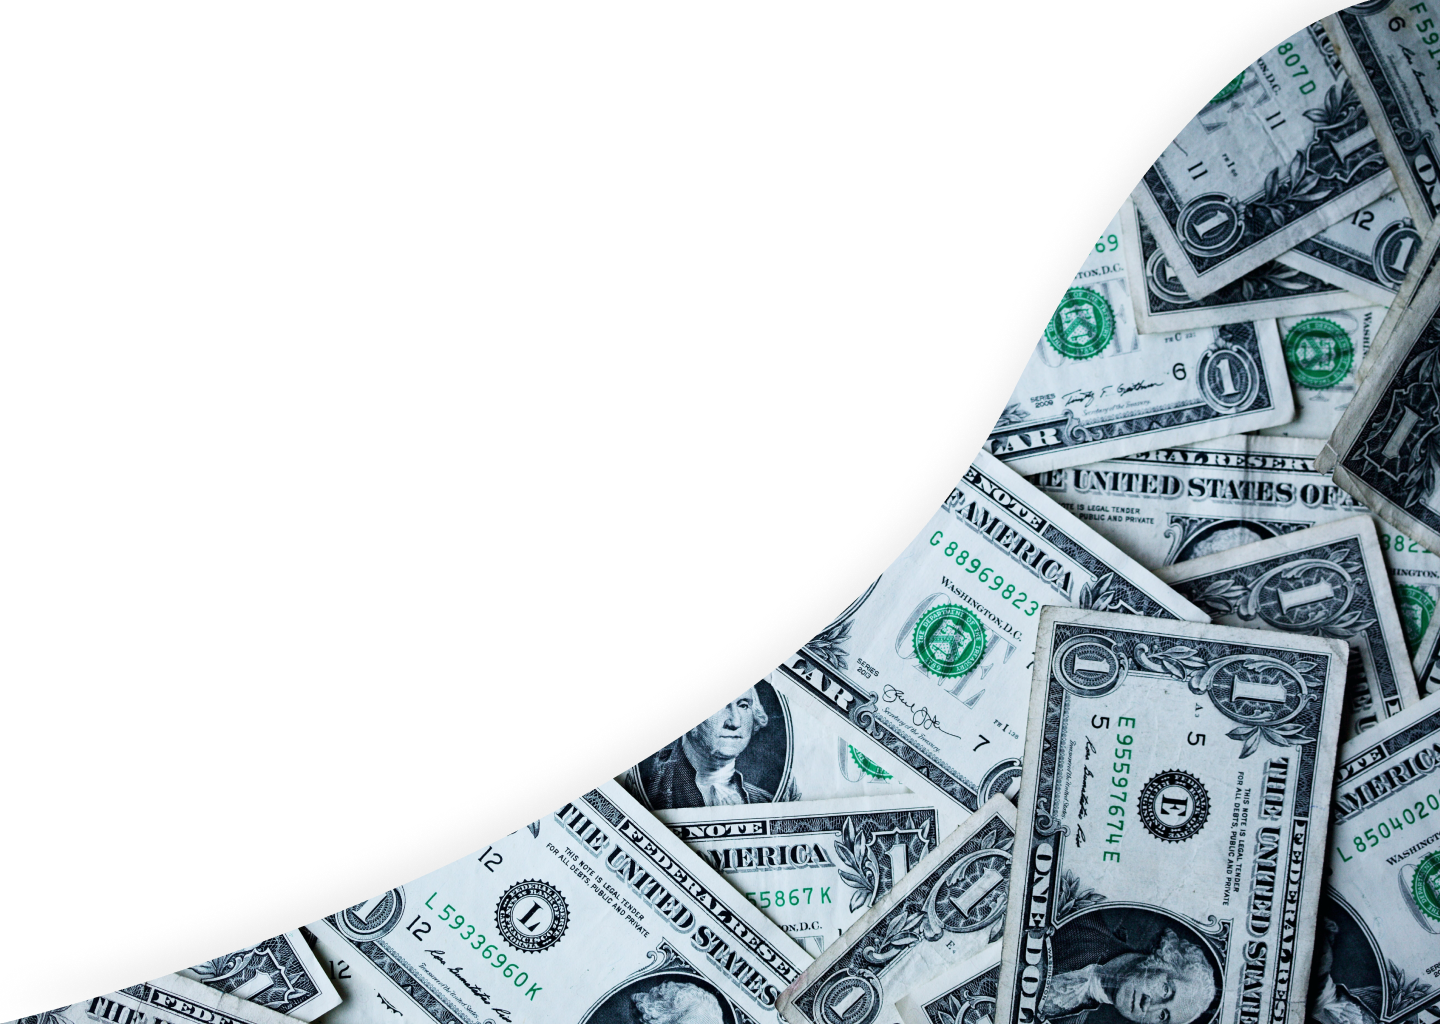
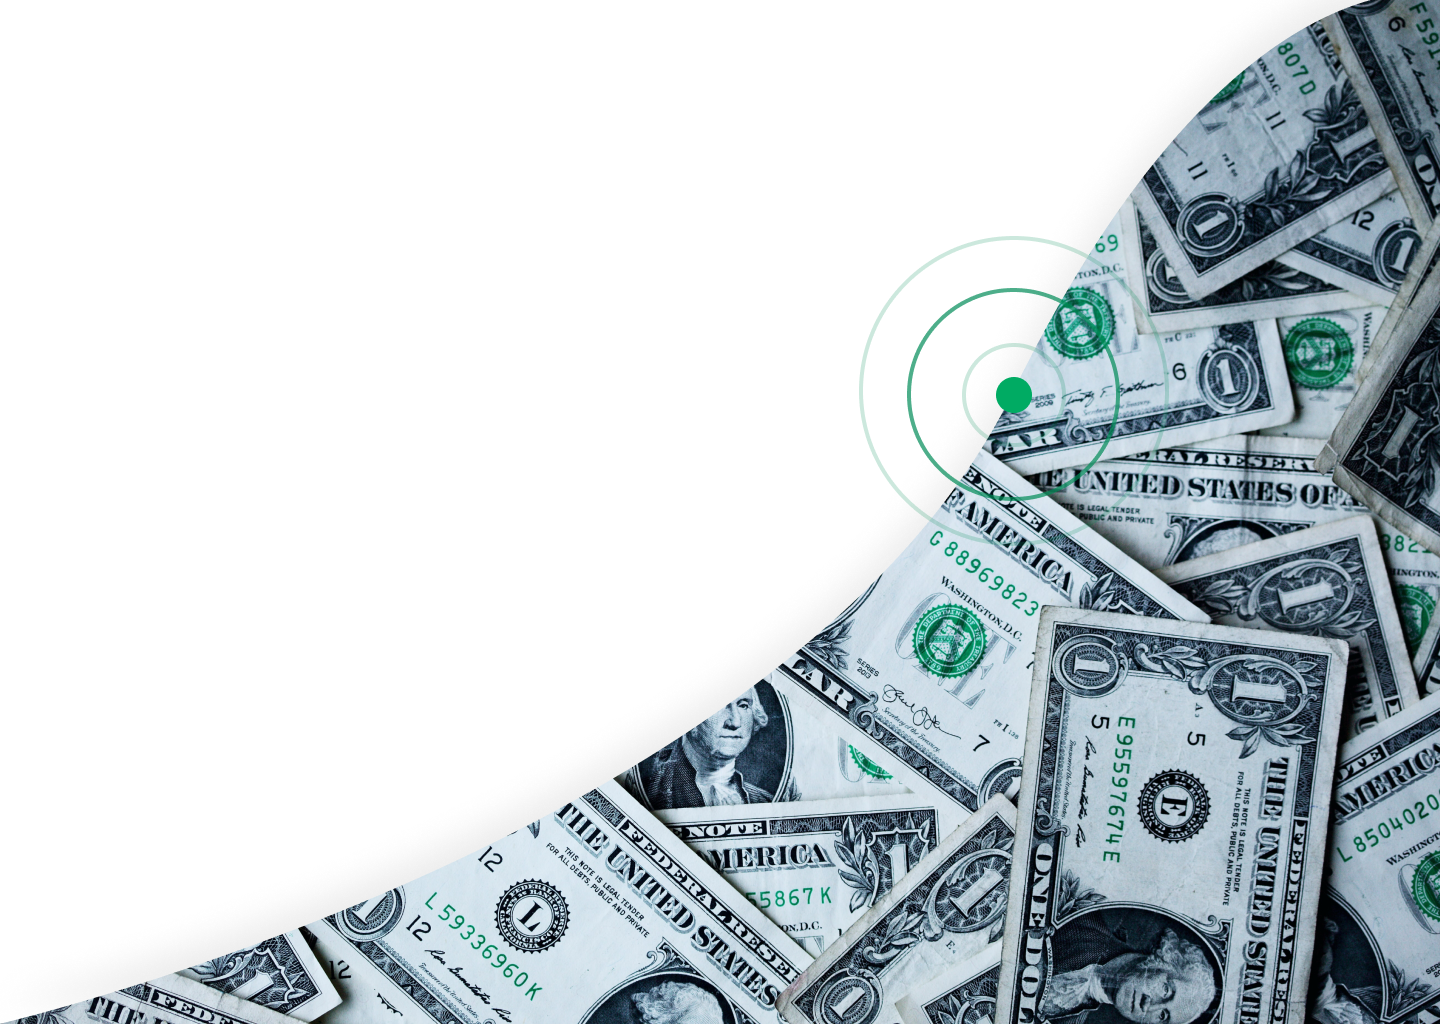
refact: Add new background

diff --git a/src/styles/global.scss b/src/styles/global.scss
@@ -23,7 +23,7 @@ body {
   color: var(--gray-700);
   -webkit-font-smoothing: antialiased;
   background: var(--white) url("/background.png") no-repeat fixed bottom right;
-  background-size: 95% 100vh;
+  background-size: auto 100%;
 }
 
 body, input, button {
@@ -39,17 +39,13 @@ a {
   text-decoration: none;
 }
 
-.graphImageBackground {
-  position: absolute;
-  top: 18%;
-  right: 18%;
-  width: 18rem;
-  height: 18rem;
-}
-
 @media (max-width: 1080px) {
   html {
     font-size: 93.75%;
+  }
+
+  body {
+    background-size: auto 85%;
   }
 }
 
@@ -59,6 +55,6 @@ a {
   }
 
   body {
-    background-size: 50%;
+    background-size: auto 50%;
   }
 }

diff --git a/src/pages/_app.tsx b/src/pages/_app.tsx
@@ -3,10 +3,5 @@ import { AppProps } from 'next/dist/next-server/lib/router/router';
 import '../styles/global.scss';
 
 export default function MyApp({ Component, pageProps }: AppProps): JSX.Element {
-  return (
-    <>
-      <img src="/graph.svg" alt="Círculos" className="graphImageBackground" />
-      <Component {...pageProps} />
-    </>
-  );
+  return <Component {...pageProps} />;
 }
